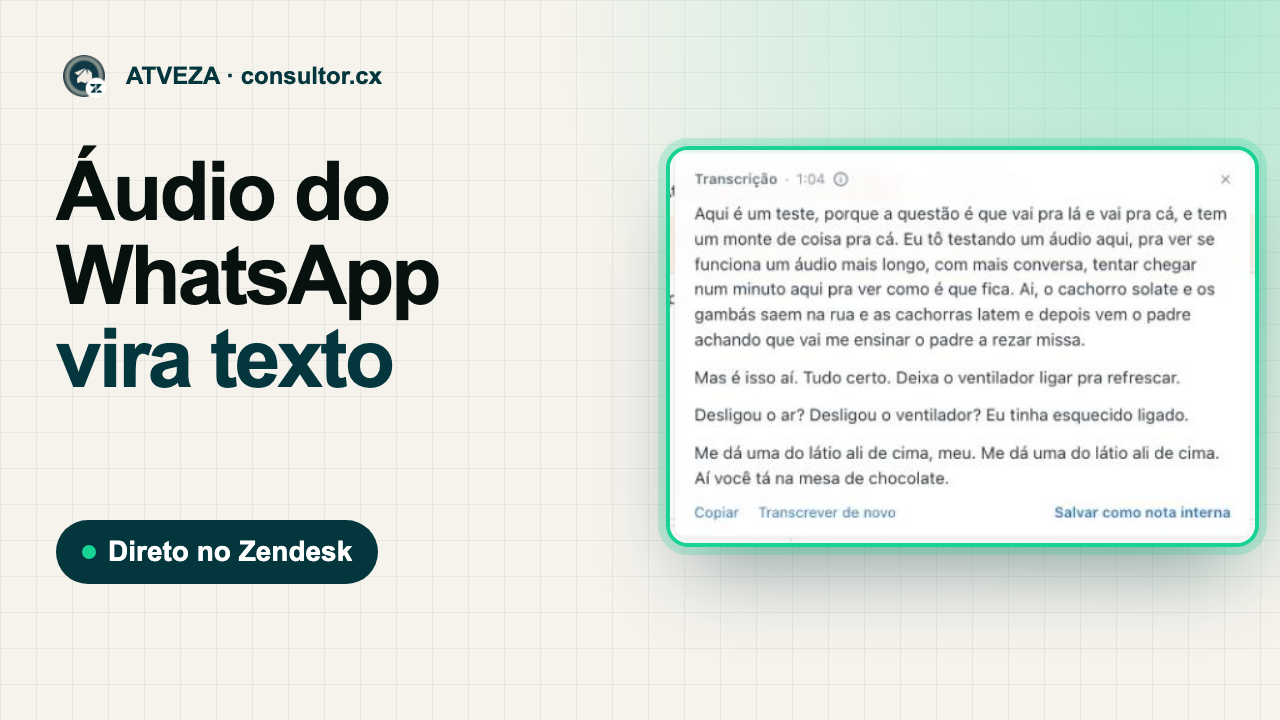
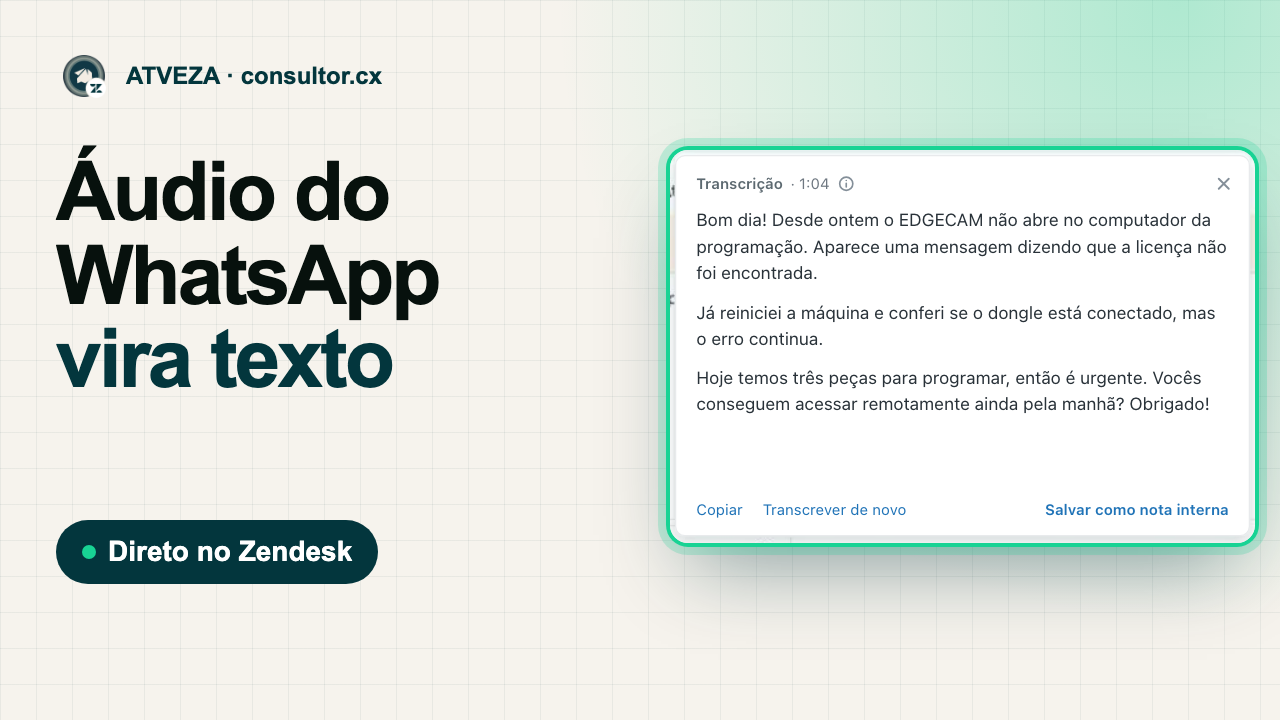
docs(store): realistic sample transcript in screenshot 1 and YouTube thumbnail
Draws the extension's box in HTML over the test capture so the marketing
images show a plausible support message instead of the test audio's text.

diff --git a/docs/youtube.md b/docs/youtube.md
@@ -22,13 +22,12 @@ Privacidade: a inteligência artificial roda no computador do agente. O áudio d
 
 Na primeira vez, a extensão baixa o modelo de IA uma única vez; depois ele fica guardado no navegador.
 
-Instale pela Chrome Web Store: <link da extensão>
+Instale pela Chrome Web Store: https://chromewebstore.google.com/detail/fppeheopbmnnoagoekmllmmohfdncfdf
 Política de privacidade: https://consultor.cx/politica-de-privacidade#transcrever-audio-zendesk
 
 Uma solução ATVEZA · https://consultor.cx
 ```
 
-Trocar `<link da extensão>` pelo link da Chrome Web Store quando a extensão for aprovada. Enquanto isso, remover a linha.
 
 ## Configurações
 
